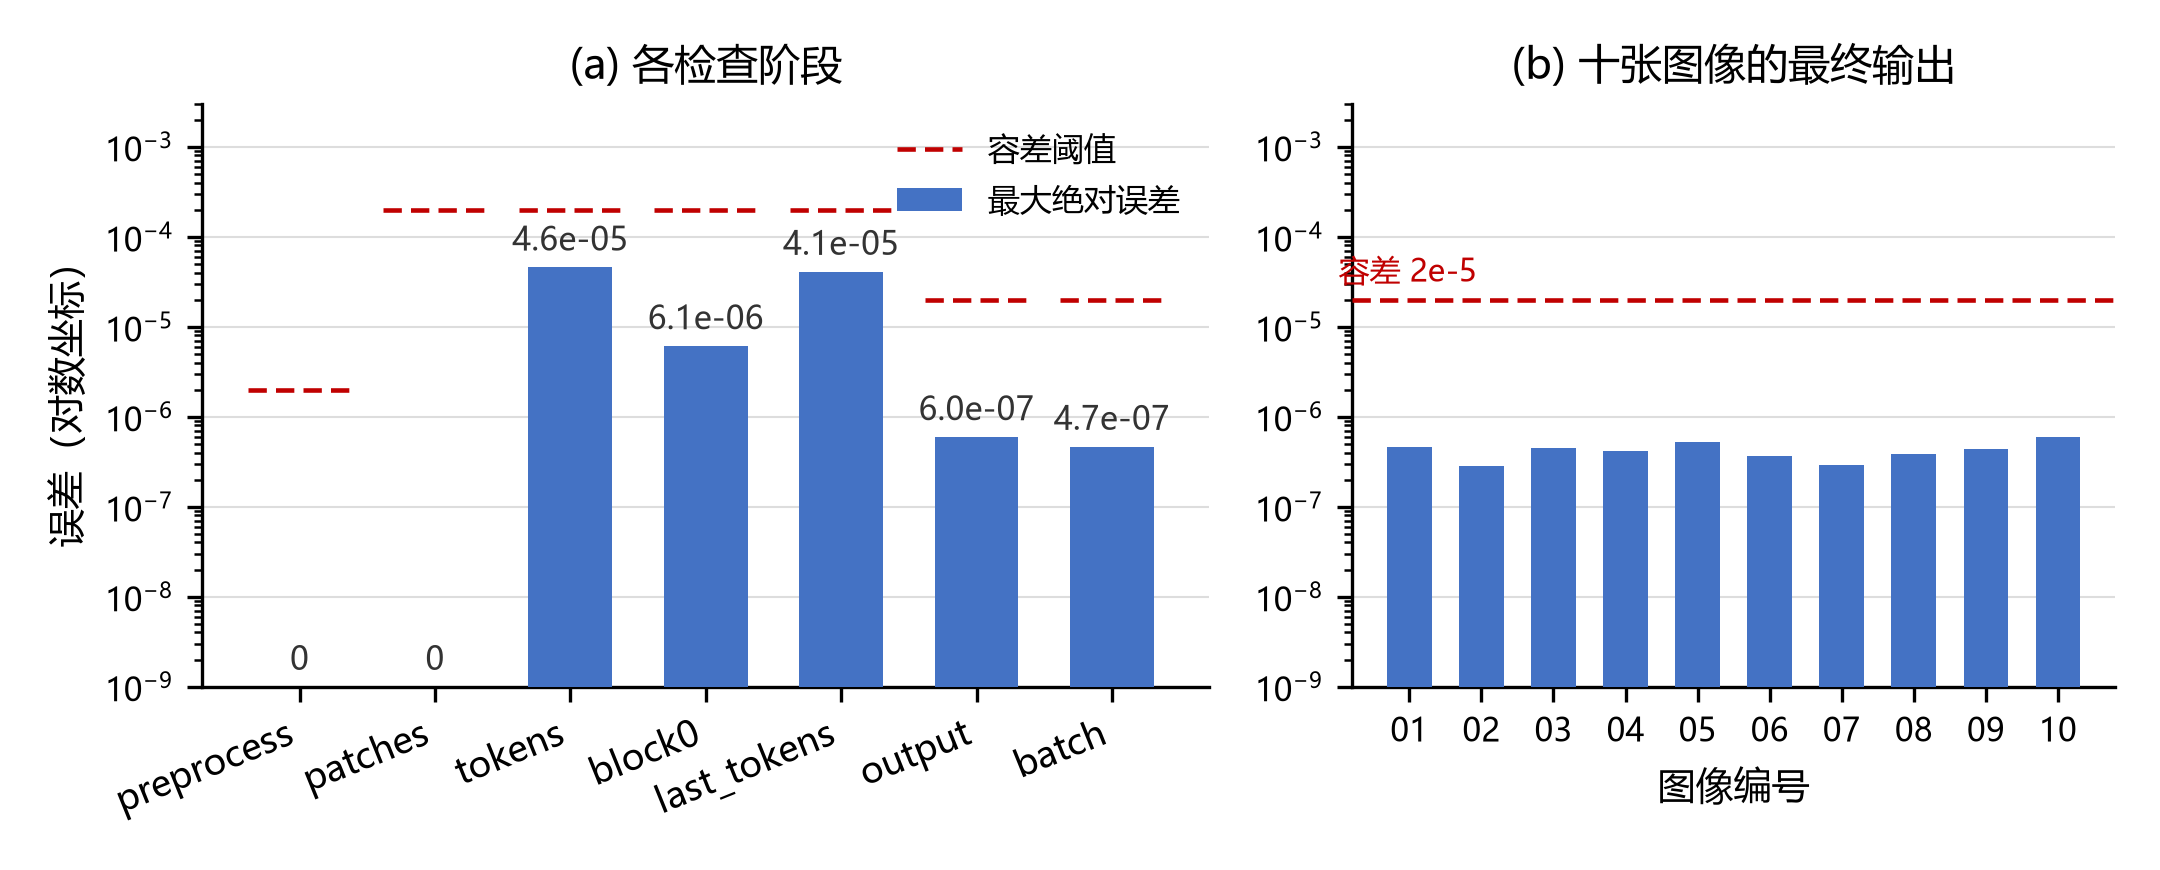
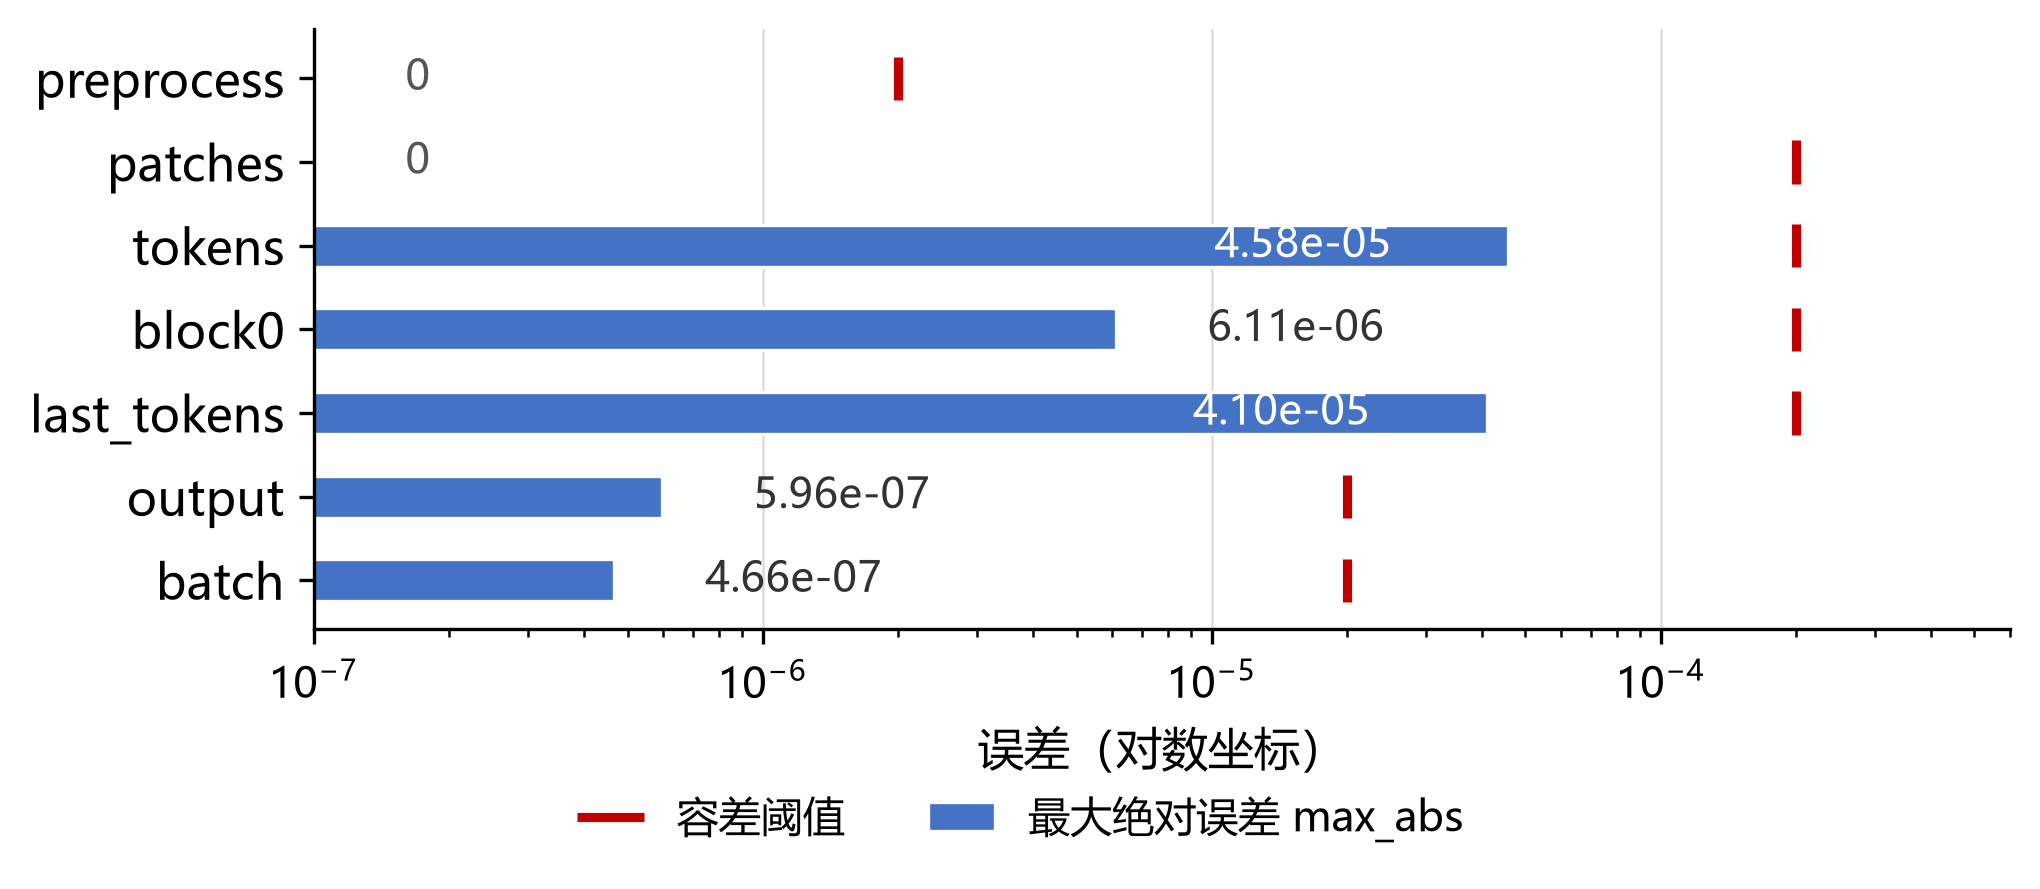
feat: 新增误差绘图脚本并输出分阶段误差图

diff --git a/make_figure.py b/make_figure.py
@@ -1,0 +1,111 @@
+"""Regenerate fig_error_comparison.png from the implementation and the reference.
+
+The stage numbers are recomputed exactly as check.py does, so the figure in the
+repository can be reproduced with:  python make_figure.py
+"""
+from pathlib import Path
+
+import matplotlib
+matplotlib.use('Agg')
+import matplotlib.pyplot as plt
+import numpy as np
+
+from runtime import ROOT, load_weights, load_images
+from image_encoder import ImageEncoder
+
+STAGES = ('preprocess', 'patches', 'tokens', 'block0', 'last_tokens', 'output', 'batch')
+TOL = {'preprocess': 2e-6, 'patches': 2e-4, 'tokens': 2e-4, 'block0': 2e-4,
+       'last_tokens': 2e-4, 'output': 2e-5, 'batch': 2e-5}
+BAR = '#4472C4'
+TICK = '#C00000'
+
+
+def stage_results(encoder, images, ref):
+    def compute(stage):
+        if stage == 'preprocess':
+            return images, ref['preprocessed']
+        if stage == 'patches':
+            return encoder.patchify(images[:2]), ref['patches'][:2]
+        if stage == 'tokens':
+            return encoder.embed(images[:2]), ref['input_tokens'][:2]
+        if stage == 'block0':
+            return encoder.blocks[0](encoder.pre_norm(encoder.embed(images[:2]))), ref['block0_tokens'][:2]
+        if stage == 'last_tokens':
+            return encoder.encode_tokens(images[:2]), ref['last_tokens'][:2]
+        if stage == 'output':
+            return encoder(images), ref['output_tokens']
+        order = [1, 0, 1]
+        return encoder(images[order]), ref['output_tokens'][order]
+
+    rows = []
+    for stage in STAGES:
+        actual, expected = compute(stage)
+        assert actual.shape == expected.shape and actual.dtype == np.float32
+        assert np.allclose(actual, expected, rtol=2e-4, atol=TOL[stage]), stage
+        rows.append((stage, float(np.abs(actual - expected).max())))
+    per_image = np.abs(encoder(images) - ref['output_tokens']).max(axis=1)
+    return rows, per_image
+
+
+def draw(rows):
+    plt.rcParams['font.sans-serif'] = ['Microsoft YaHei', 'SimHei', 'DejaVu Sans']
+    plt.rcParams['axes.unicode_minus'] = False
+
+    fig, ax = plt.subplots(figsize=(6.9, 3.0), dpi=300)
+    names = [name for name, _ in rows]
+    values = np.array([value for _, value in rows])
+    y = np.arange(len(rows))[::-1]
+
+    floor = 1e-7
+    ceiling = 6e-4
+    plotted = np.where(values > 0, values, floor)
+    ax.barh(y, plotted, height=0.5, color=BAR, edgecolor='white', linewidth=0.8,
+            label='最大绝对误差 max_abs')
+
+    decades = np.log10(ceiling / floor)
+    for yi, (name, value) in zip(y, rows):
+        ax.vlines(TOL[name], yi - 0.26, yi + 0.26, color=TICK, linewidth=2.2,
+                  label='容差阈值' if name == names[0] else None)
+        if value == 0:
+            ax.text(1.6 * floor, yi, '0', va='center', ha='left',
+                    fontsize=10, color='#555555')
+            continue
+        inside = np.log10(ceiling / value) < 1.6
+        if inside:
+            ax.text(value * 0.55, yi, f'{value:.2e}', va='center', ha='right',
+                    fontsize=10, color='white')
+        else:
+            ax.text(value * 1.6, yi, f'{value:.2e}', va='center', ha='left',
+                    fontsize=10, color='#333333')
+
+    ax.set_yticks(y)
+    ax.set_yticklabels(names, fontsize=11.5)
+    ax.set_xscale('log')
+    ax.set_xlim(floor, ceiling)
+    ax.set_xlabel('误差（对数坐标）', fontsize=11)
+    ax.grid(axis='x', which='major', color='#DDDDDD', linewidth=0.6)
+    ax.set_axisbelow(True)
+    for side in ('top', 'right'):
+        ax.spines[side].set_visible(False)
+    handles, labels = ax.get_legend_handles_labels()
+    fig.legend(handles, labels, loc='lower center', bbox_to_anchor=(0.5, 0.005),
+               ncol=2, fontsize=10, frameon=False, handlelength=1.6)
+    fig.tight_layout(rect=(0, 0.07, 1, 1))
+    out = ROOT / 'fig_error_comparison.png'
+    fig.savefig(out, dpi=300, bbox_inches='tight')
+    print('saved', out)
+
+
+def main():
+    encoder = ImageEncoder(load_weights())
+    images = load_images()
+    with np.load(ROOT / 'assets/reference_outputs.npz', allow_pickle=False) as ref:
+        rows, per_image = stage_results(encoder, images, ref)
+    for name, value in rows:
+        print(f'{name:12} max_abs={value:.6e}  atol={TOL[name]:g}')
+    print(f'per-image output max_abs: {per_image.min():.3e} .. {per_image.max():.3e}')
+    draw(rows)
+
+
+if __name__ == '__main__':
+    main()
